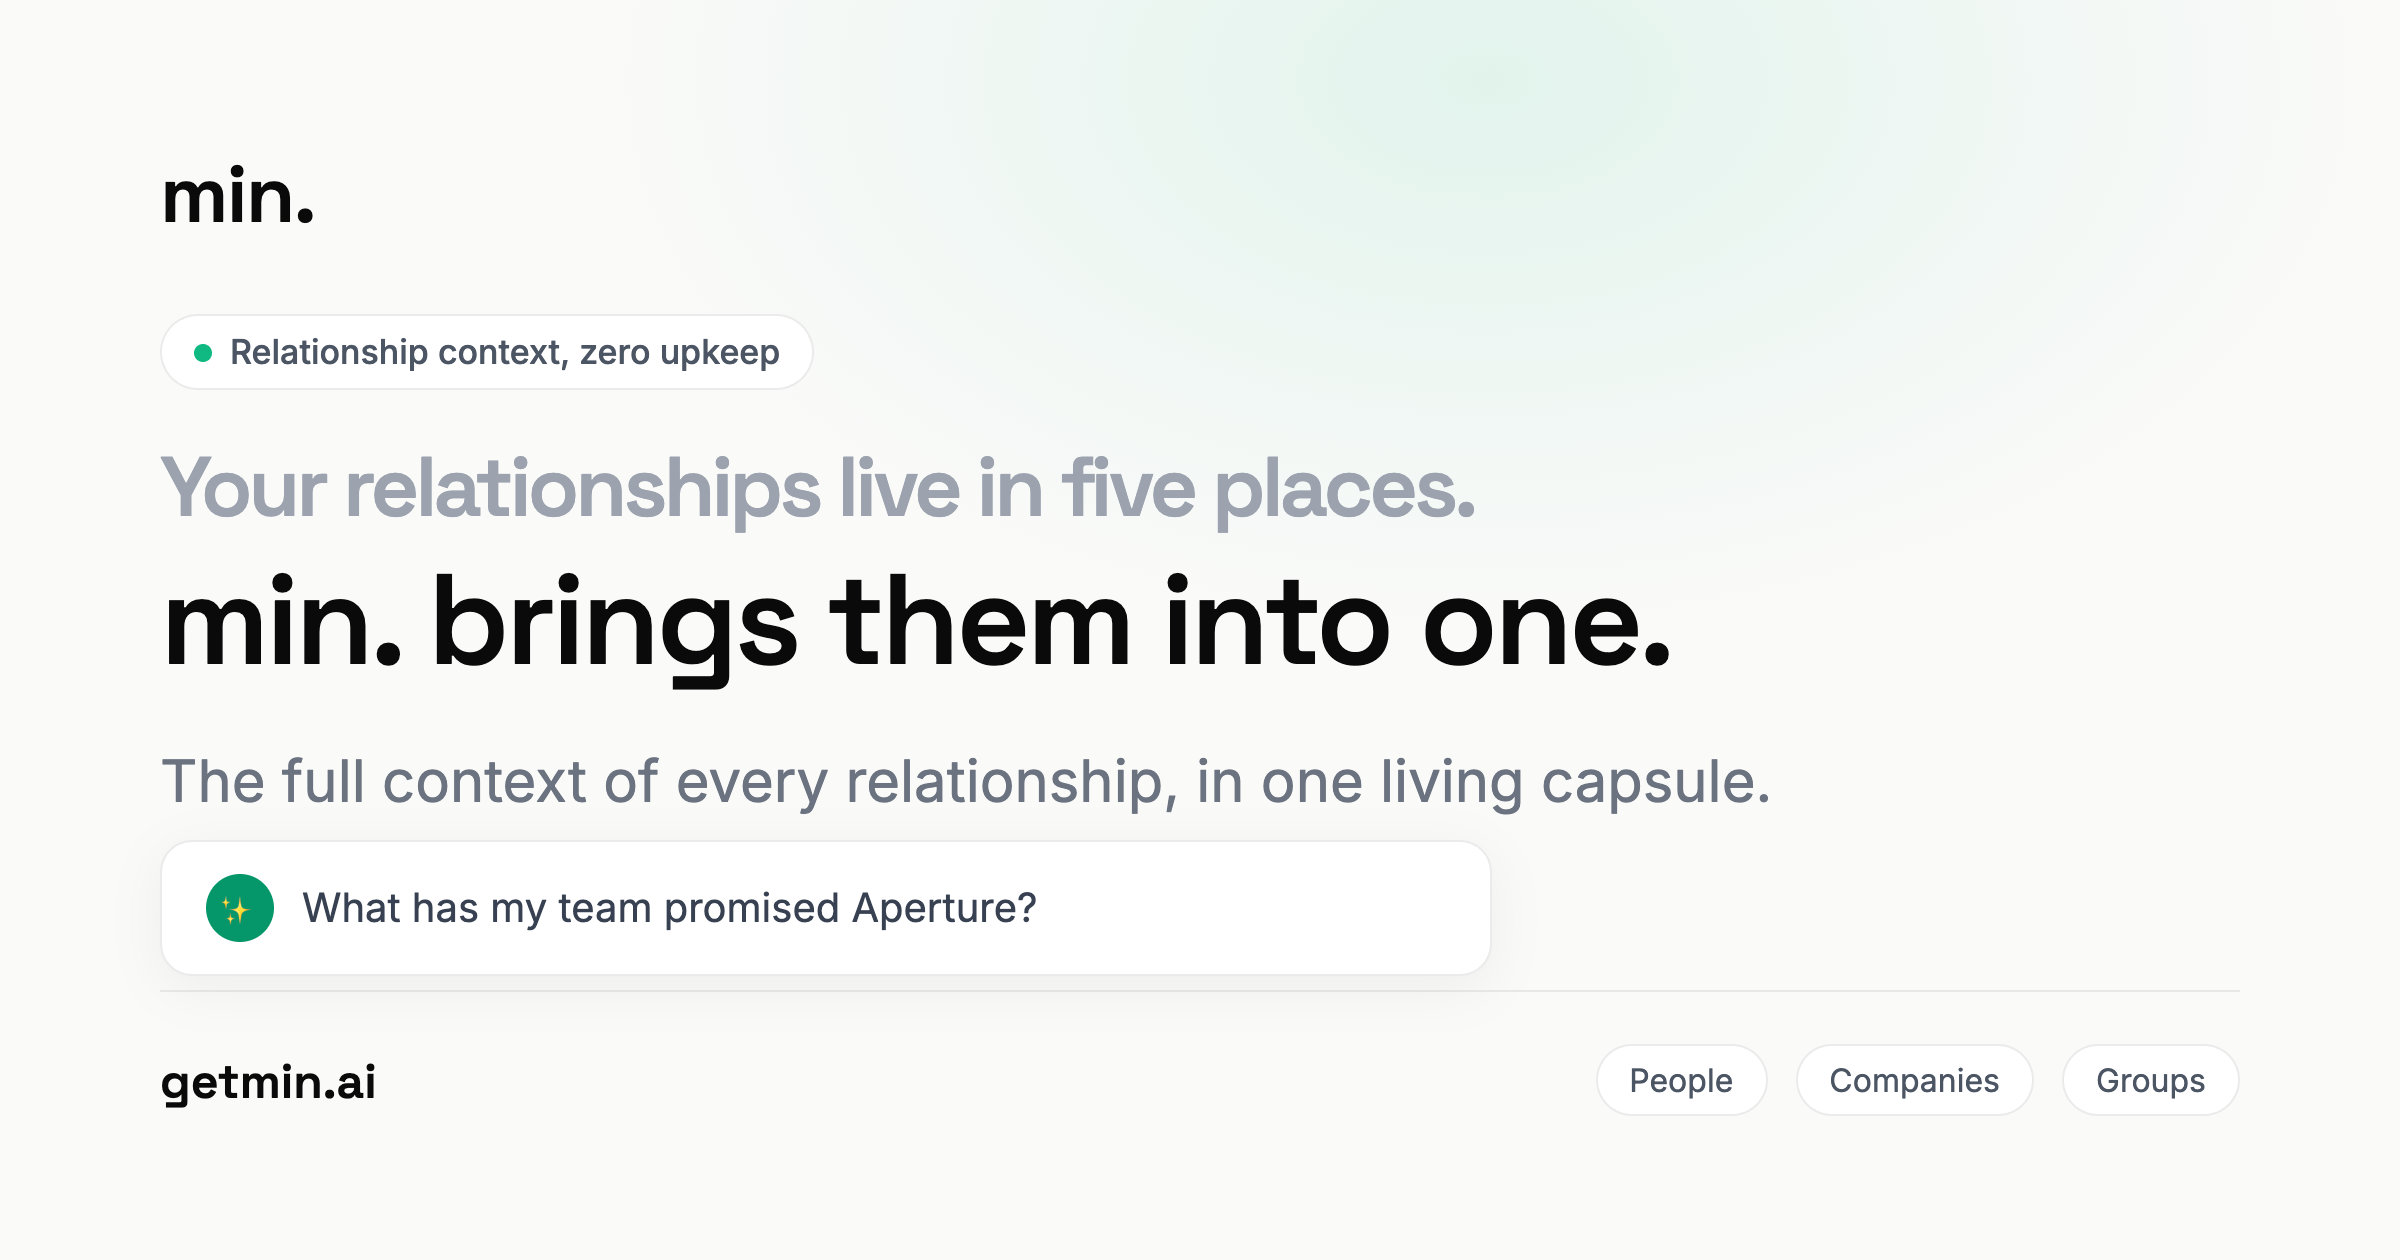
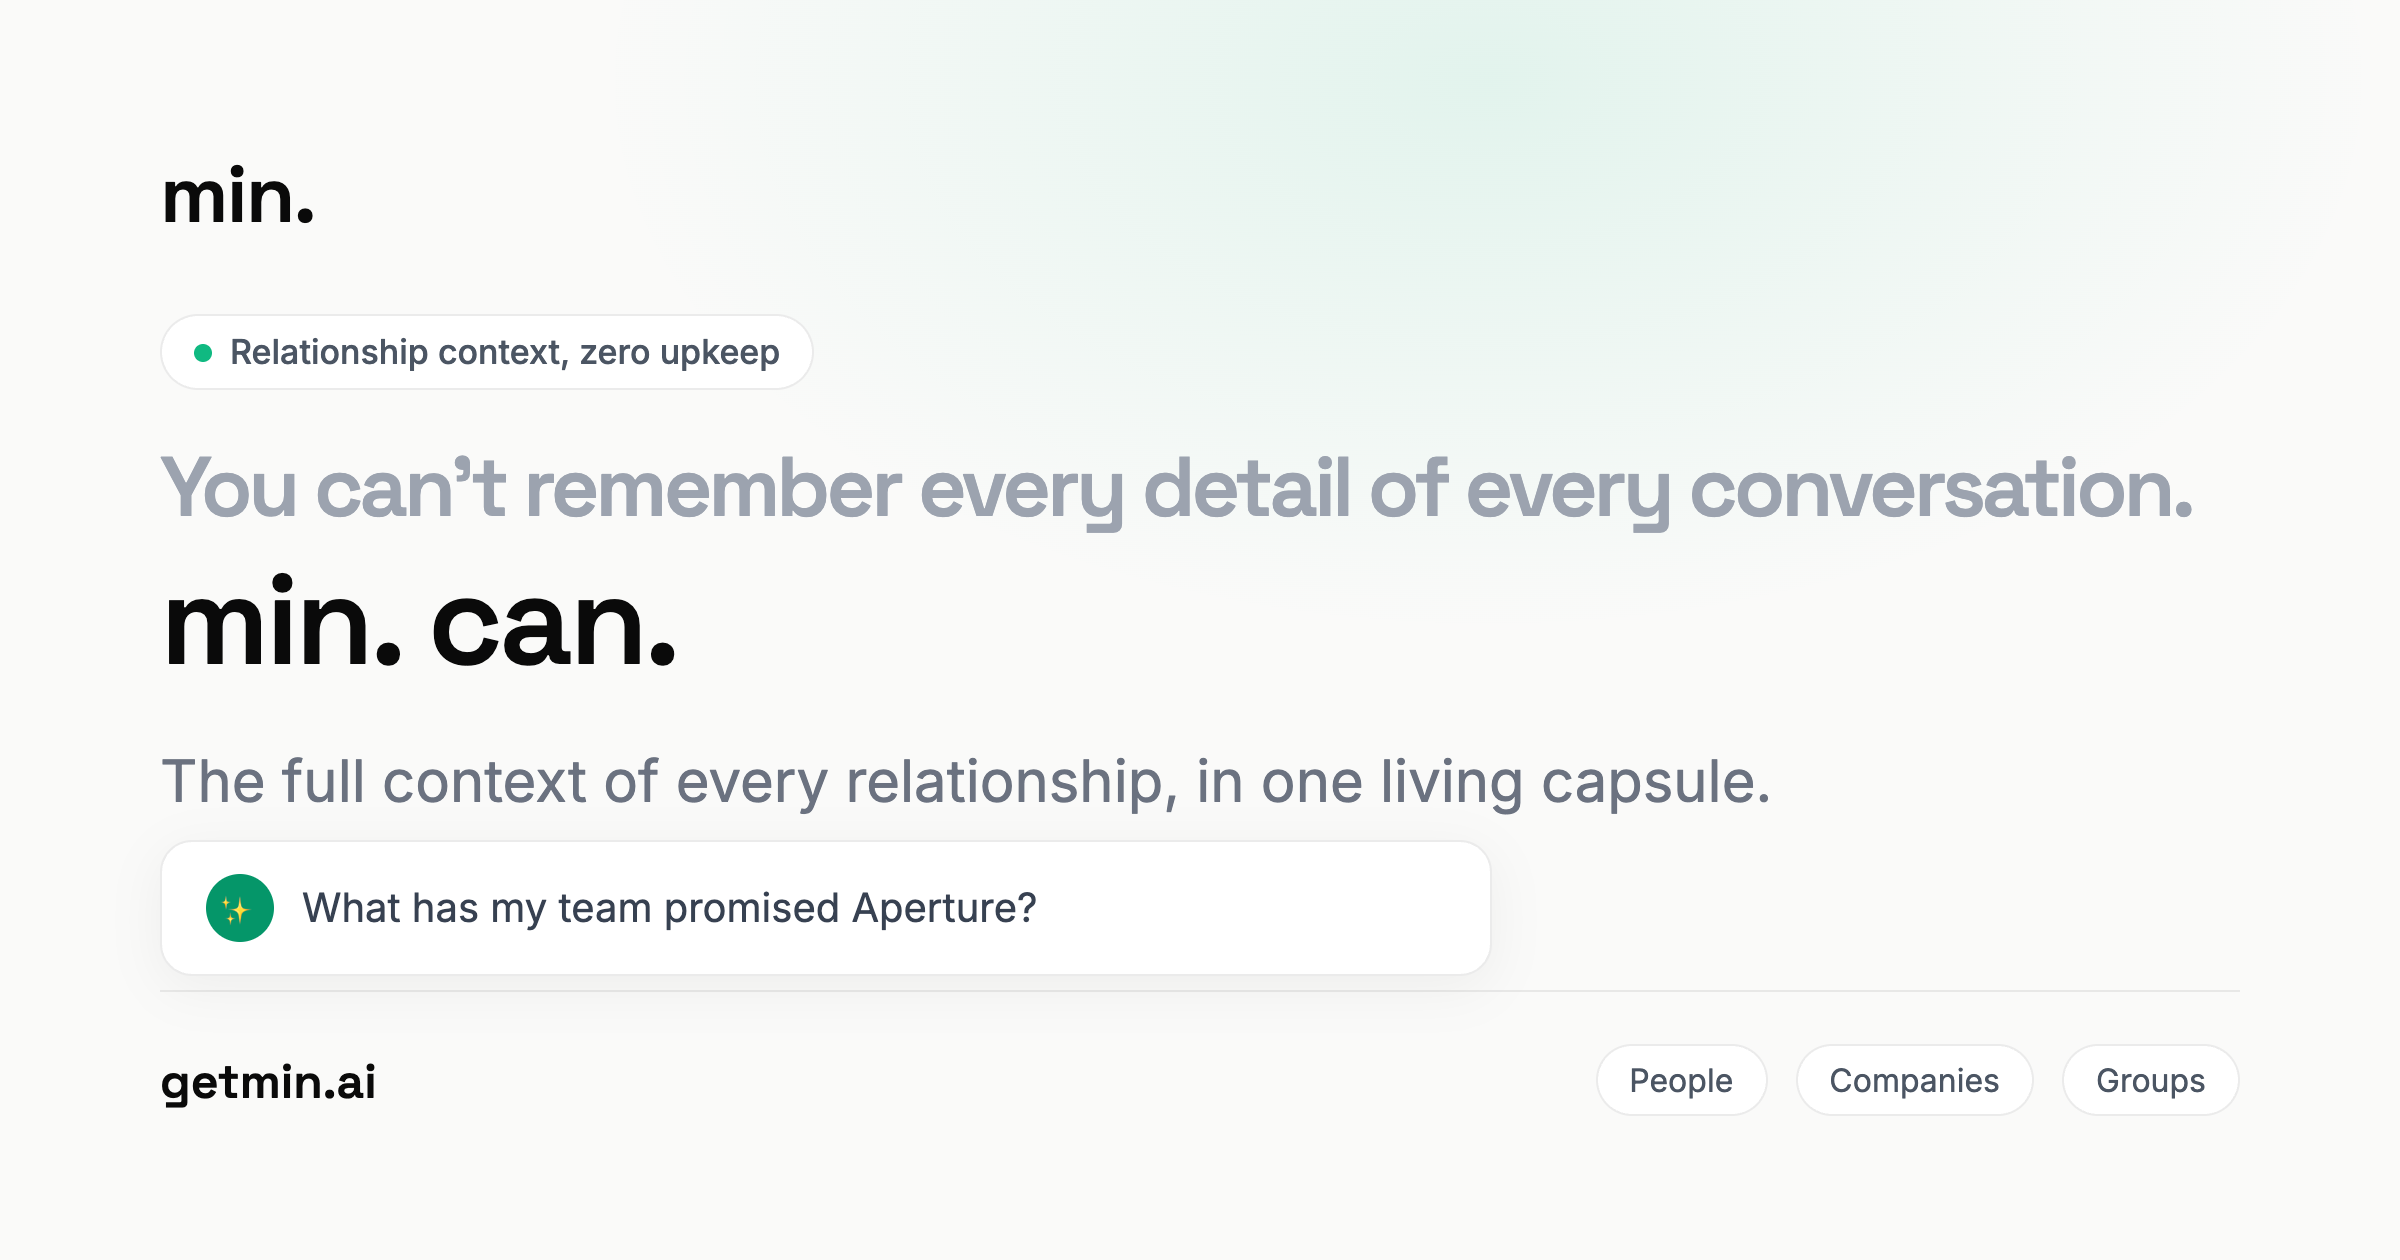
Emotional sharpening: human hero, reads between the lines, competition insight
The page argued well but felt little. This pass raises the temperature
without touching the architecture:

- Hero: "You can't remember every detail of every conversation. min. can."
  The muted line names a human limit (absolution, not accusation); the
  bold line is the relief. OG image re-rendered to match.
- Capsule section claims the capability in one idiom, bolded: "It reads
  between the lines, and between the conversations."
- The demo proves it: workspace insight #1 is now interpretive, not
  administrative: "Price has come up in three straight conversations,
  earlier each time. Aperture is comparing options." with trend, evidence
  (Jun 2 / Jun 8 / Jun 14), and next move in the expansion. New ask-rail
  prompt "Am I competing with anyone for this pilot?" streams the same
  read. One threat-flavored insight max, phrased on the user's side.
- Turn line simplified to four parallel sentences.

Changed region(s): [[0.125, 0.3405, 0.9062, 0.4333], [0.1562, 0.4643, 0.7188, 0.5571]]

diff --git a/src/components/landing/CapsuleWorkspace.tsx b/src/components/landing/CapsuleWorkspace.tsx
@@ -25,11 +25,11 @@ import { CompanyLink, CompanyCapsuleContent } from "./CompanyCapsule";
 
 const INSIGHTS: { text: string; detail: Detail }[] = [
   {
-    text: "Committed to a $12K pilot, pending security review.",
+    text: "Price has come up in three straight conversations, earlier each time. Aperture is comparing options.",
     detail: {
-      kind: "call",
-      source: "Call · Jun 8",
-      body: "Jordan wants his IT lead to clear the security overview before kickoff. He was explicit the pilot does not wait on the annual contract.",
+      kind: "email",
+      source: "Jun 2 · Jun 8 · Jun 14",
+      body: "Jordan asked about annual pricing on Jun 2, Sam raised per seat cost on the walkthrough, and Jordan's Jun 14 email mentions evaluating a couple of tools. Worth reinforcing value before the team demo.",
     },
   },
   {
@@ -117,8 +117,8 @@ const GROUP_PROMPTS: Prompt[] = [
     a: "The onboarding checklist, she has asked for it twice since the walkthrough. She also wants the team demo on the calendar so her ops team sees the setup before kickoff.",
   },
   {
-    q: "Did Jordan send the pilot agreement?",
-    a: "No. He promised the countersigned agreement by the end of the week of Jun 8, and it has not arrived in any thread since. Worth raising when you send the checklist.",
+    q: "Am I competing with anyone for this pilot?",
+    a: "Signs point that way. Price has come up in three straight conversations, and Jordan's Jun 14 email mentions evaluating a couple of tools. Nobody named yet, so treat the team demo as your chance to make the choice easy.",
   },
 ];
 

diff --git a/src/components/landing/CapsuleUpClose.tsx b/src/components/landing/CapsuleUpClose.tsx
@@ -16,8 +16,11 @@ export default function CapsuleUpClose() {
               One relationship, one capsule.
             </h2>
             <p className="mx-auto mt-4 max-w-xl text-[17px] leading-relaxed text-gray-500">
-              The relationship's full context in a one page TL;DR, with one
-              click deep dives into every call and email. Then ask it anything.
+              <span className="font-medium text-gray-900">
+                It reads between the lines, and between the conversations.
+              </span>{" "}
+              The whole relationship in a one page TL;DR, with one click deep
+              dives. Then ask it anything.
             </p>
           </div>
         </FadeIn>

diff --git a/public/og-image.html b/public/og-image.html
@@ -149,8 +149,8 @@
                 <div class="logo">min.</div>
                 <div class="badge"><span class="badge-dot"></span>Relationship context, zero upkeep</div>
                 <div class="headline">
-                    <span class="muted">Your relationships live in five places.</span>
-                    min. brings them into one.
+                    <span class="muted">You can't remember every detail of every conversation.</span>
+                    min. can.
                 </div>
                 <div class="subheadline">
                     The full context of every relationship, in one living capsule.

diff --git a/src/components/landing/ProblemStrip.tsx b/src/components/landing/ProblemStrip.tsx
@@ -10,8 +10,8 @@ export default function ProblemStrip() {
     <section className="border-y border-gray-100 bg-white px-4 py-10 md:py-12">
       <FadeIn>
         <p className="mx-auto max-w-3xl text-center text-[17px] leading-relaxed text-gray-500 md:text-[19px]">
-          Work runs on relationships. Yet meeting apps remember meetings, and
-          inboxes remember threads.{" "}
+          Work runs on relationships. Meeting apps remember meetings. Inboxes
+          remember threads.{" "}
           <span className="font-medium text-gray-900">
             min. remembers relationships.
           </span>

diff --git a/src/components/landing/LandingHero.tsx b/src/components/landing/LandingHero.tsx
@@ -23,9 +23,9 @@ export default function LandingHero() {
           <FadeIn delay={0.1}>
             <h1 className="font-display text-[2.6rem] font-semibold leading-[1.08] tracking-tight text-gray-900 sm:text-5xl md:text-6xl">
               <span className="text-gray-400">
-                Your relationships live in five places.
+                You can't remember every detail of every conversation.
               </span>
-              <br /> min. brings them into one.
+              <br /> min. can.
             </h1>
           </FadeIn>
 
